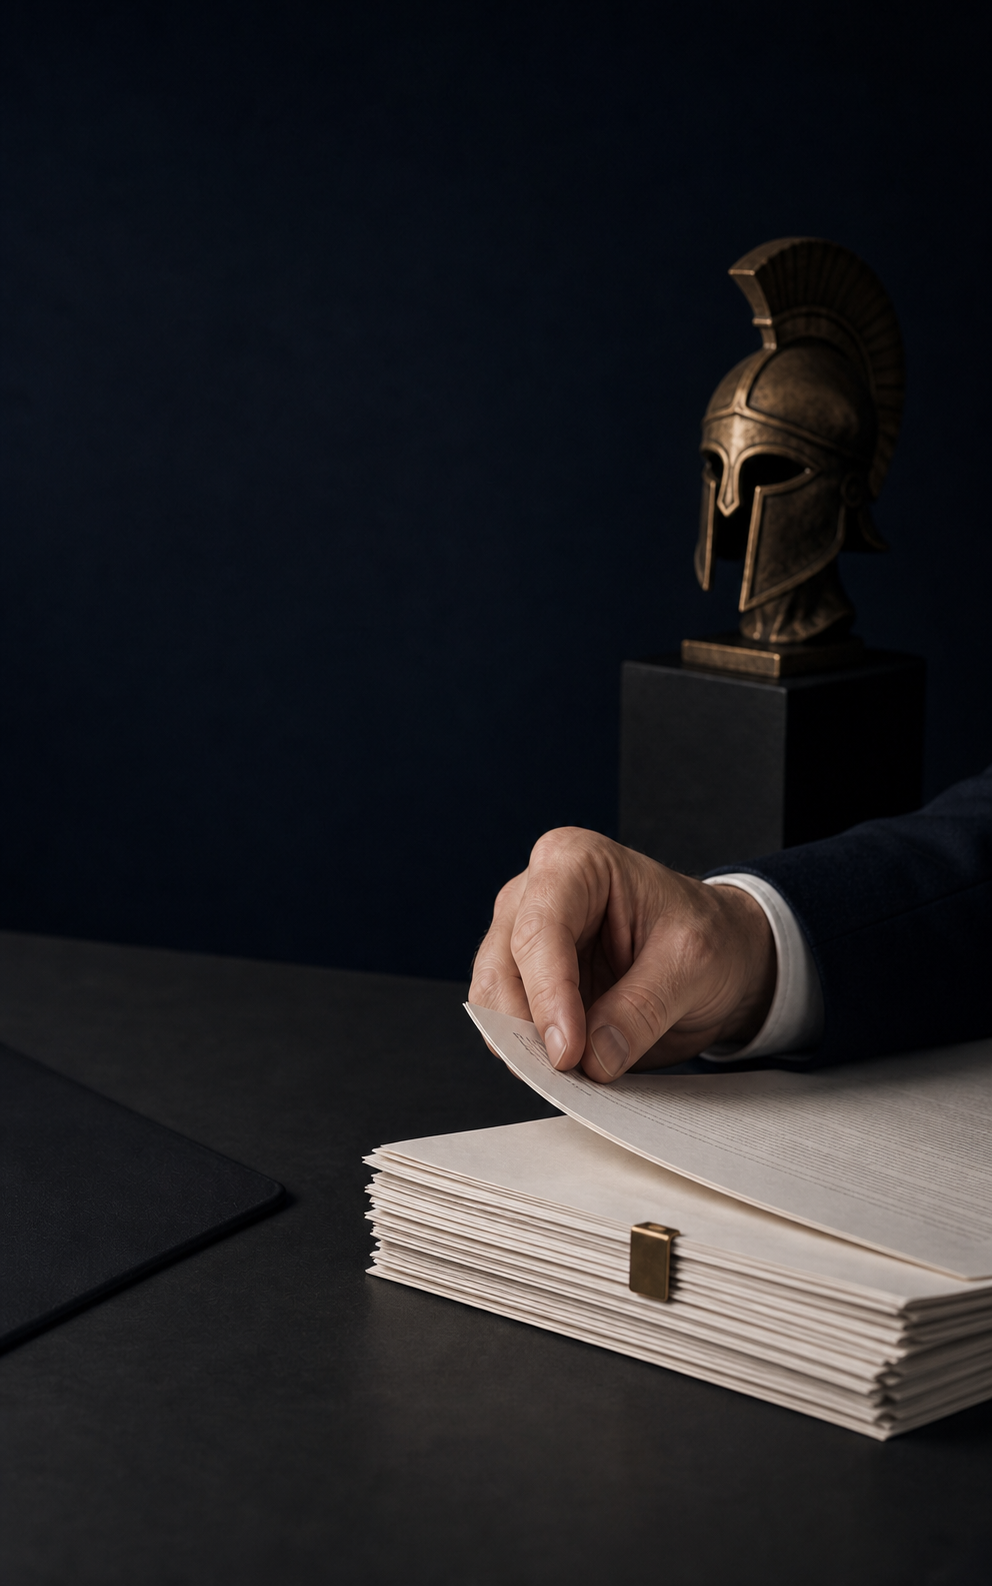
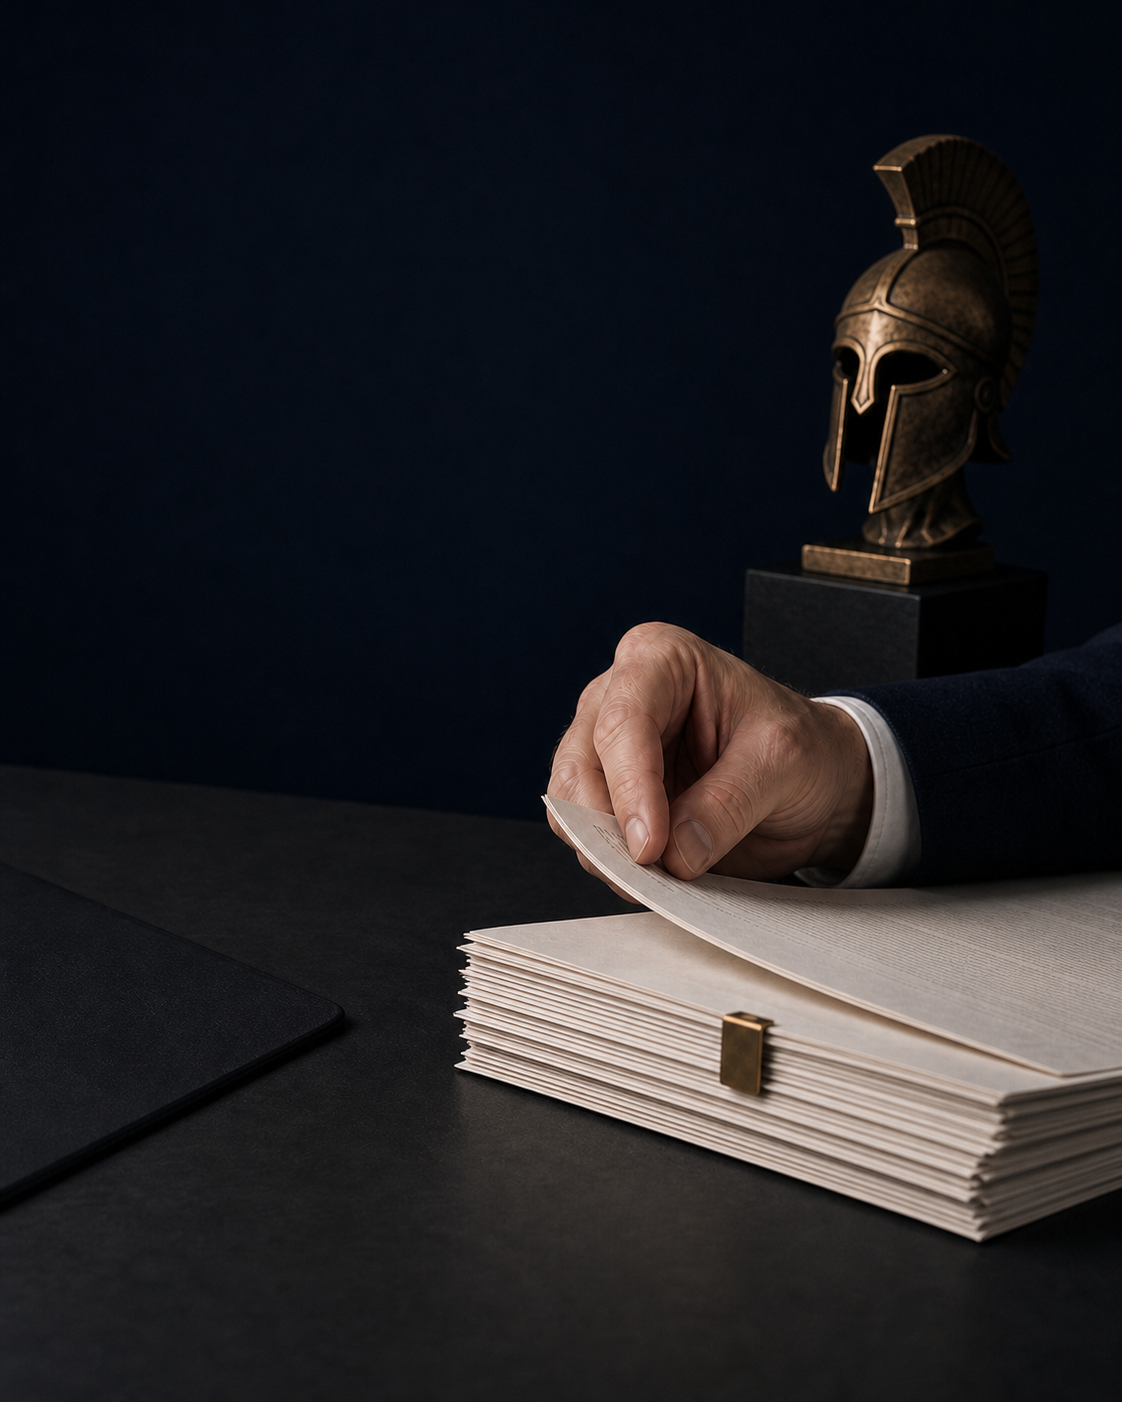
Refine hero documents image

diff --git a/site/index.html b/site/index.html
@@ -30,7 +30,7 @@
   <link rel="preconnect" href="https://fonts.gstatic.com" crossorigin>
   <link rel="preconnect" href="https://31f130418eb552015102c26492c44c93.mtmba.ru">
   <link href="https://fonts.googleapis.com/css2?family=Lora:wght@500;600;700&family=Manrope:wght@300;400;600;700&display=swap&subset=cyrillic" rel="stylesheet">
-  <link rel="stylesheet" href="assets/css/style.css?v=20260729-hero-image">
+  <link rel="stylesheet" href="assets/css/style.css?v=20260729-hero-image-v2">
 </head>
 <body>
 
